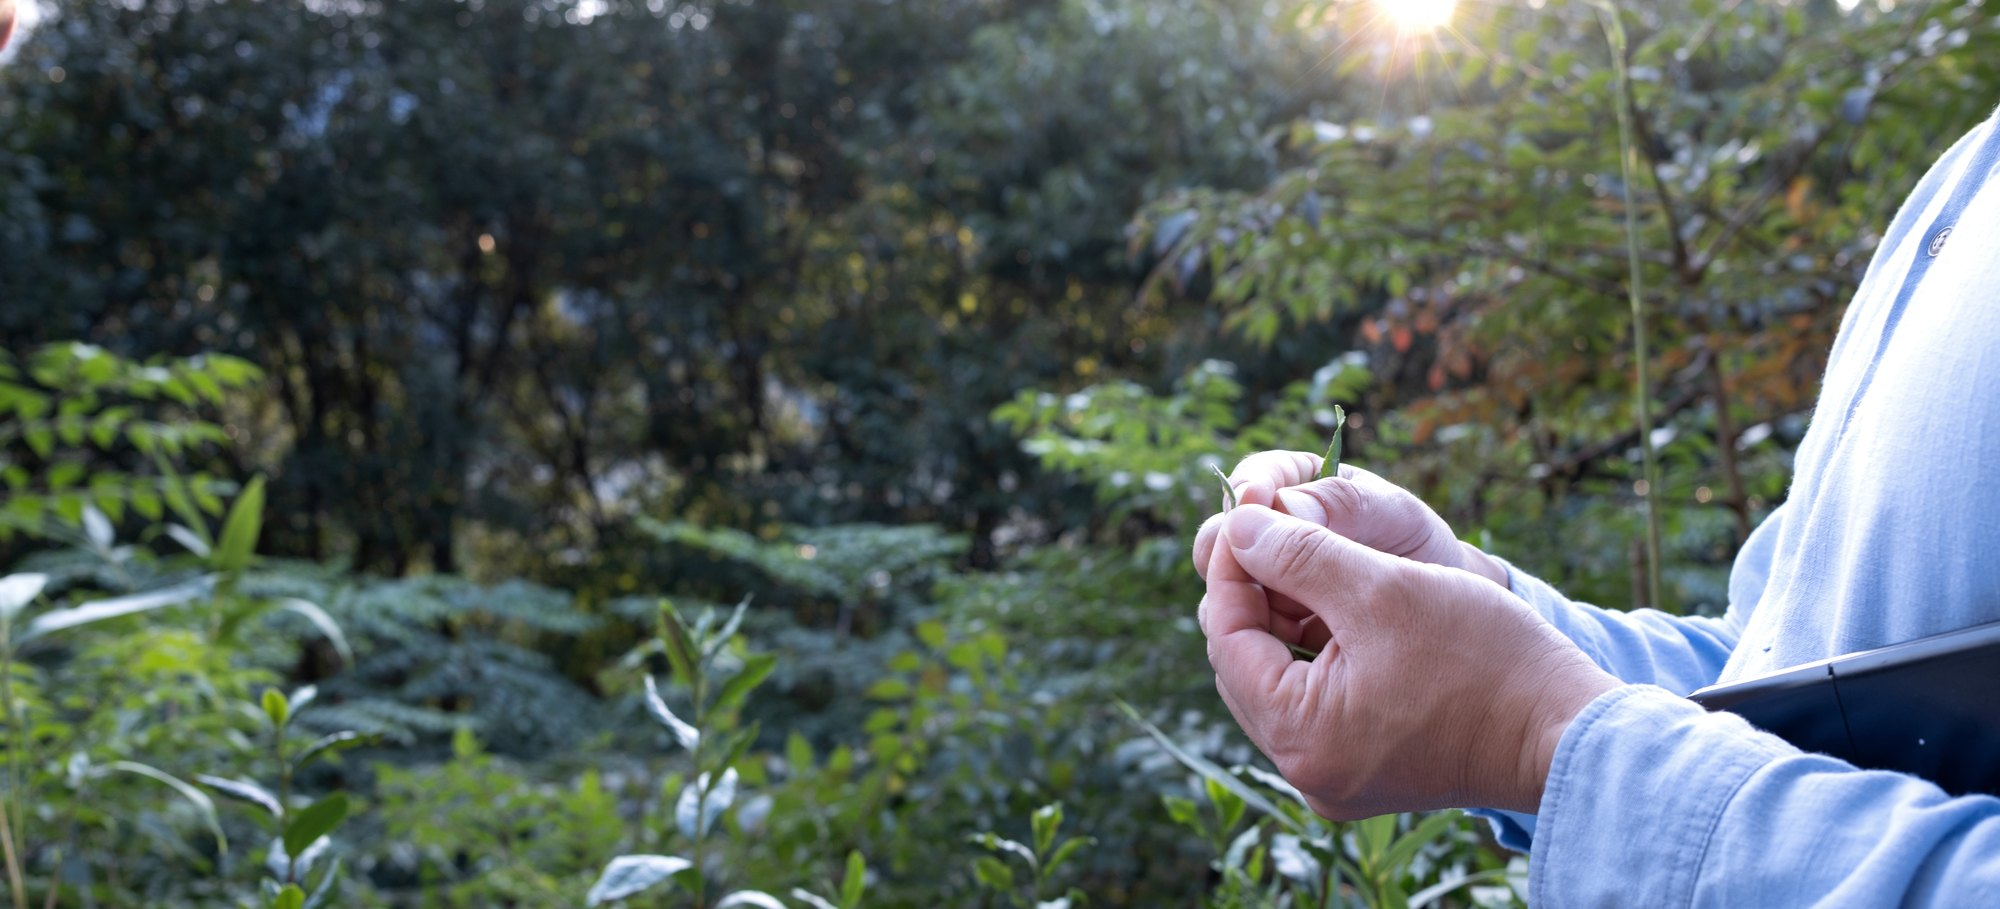
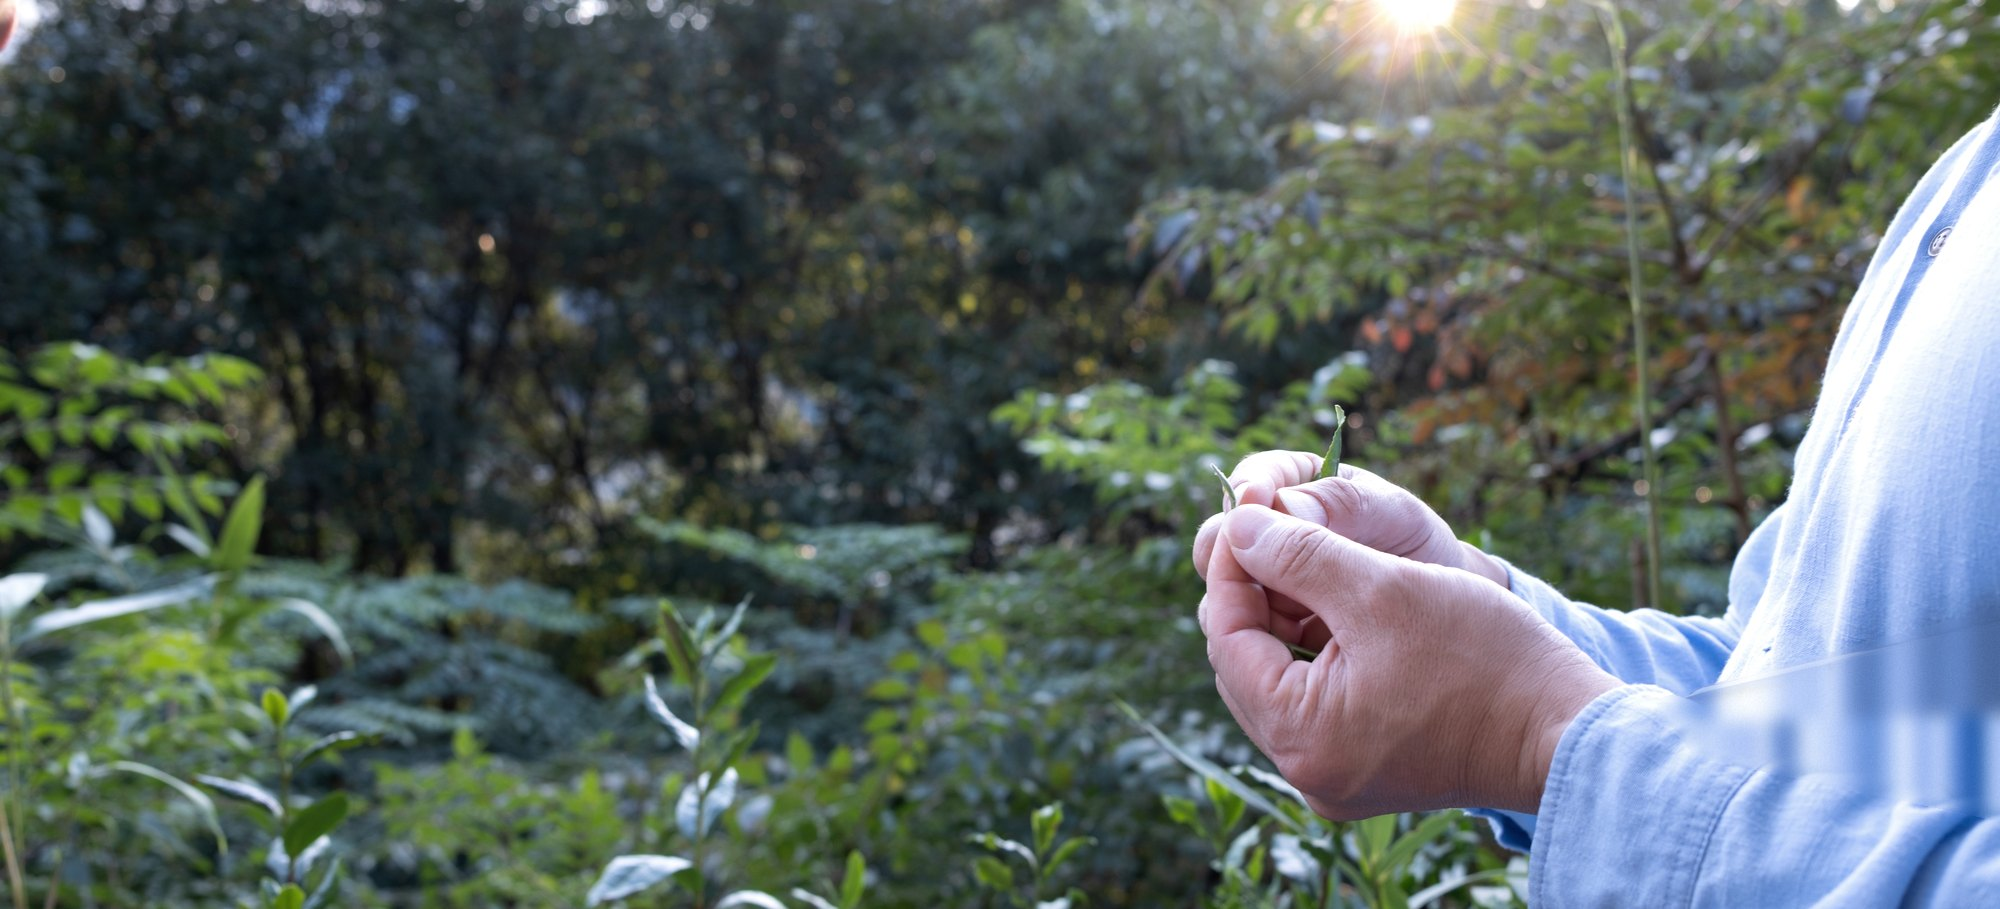
Baby leaf slide: tablet retouched out; carousel slows to 9s per slide
Diffusion-filled the device under the arm and matched the shot's soft
focus; grain re-added. Slide interval 6s to 9s (+50%).

Changed region(s): [[0.837, 0.6777, 1.0, 0.9241]]

diff --git a/koyo-site/js/main.js b/koyo-site/js/main.js
@@ -118,7 +118,7 @@ if (site) {
         gsap.to(cap, { opacity: 1, duration: 0.45, ease: "power1.out" });
       } });
       cur = next;
-    }, 6000);
+    }, 9000);
   }
 
   // let the footage breathe slowly, and only play what is on screen
